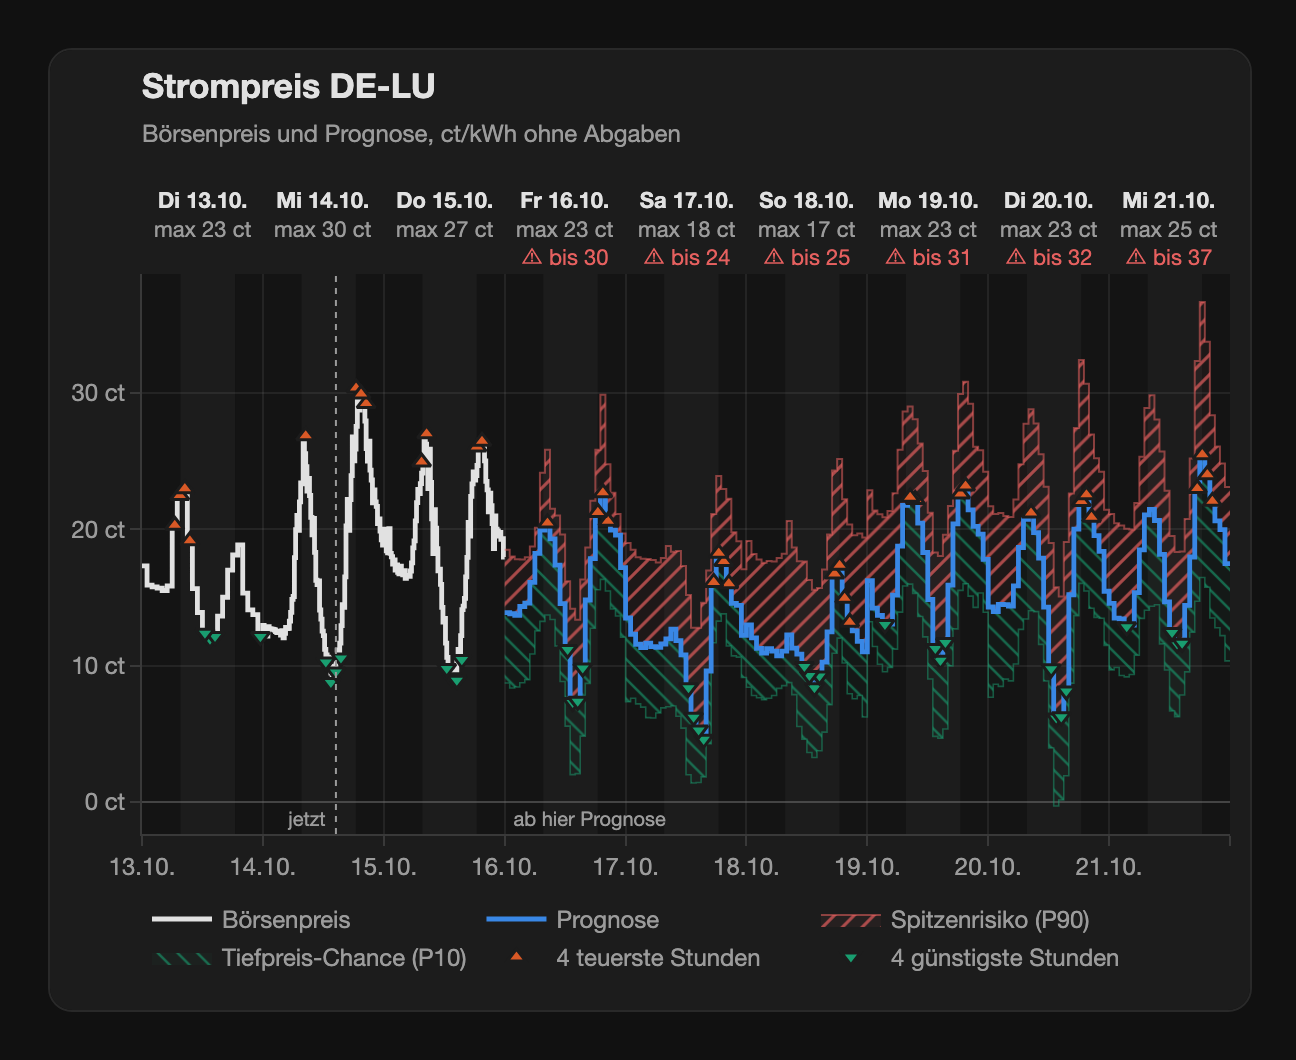
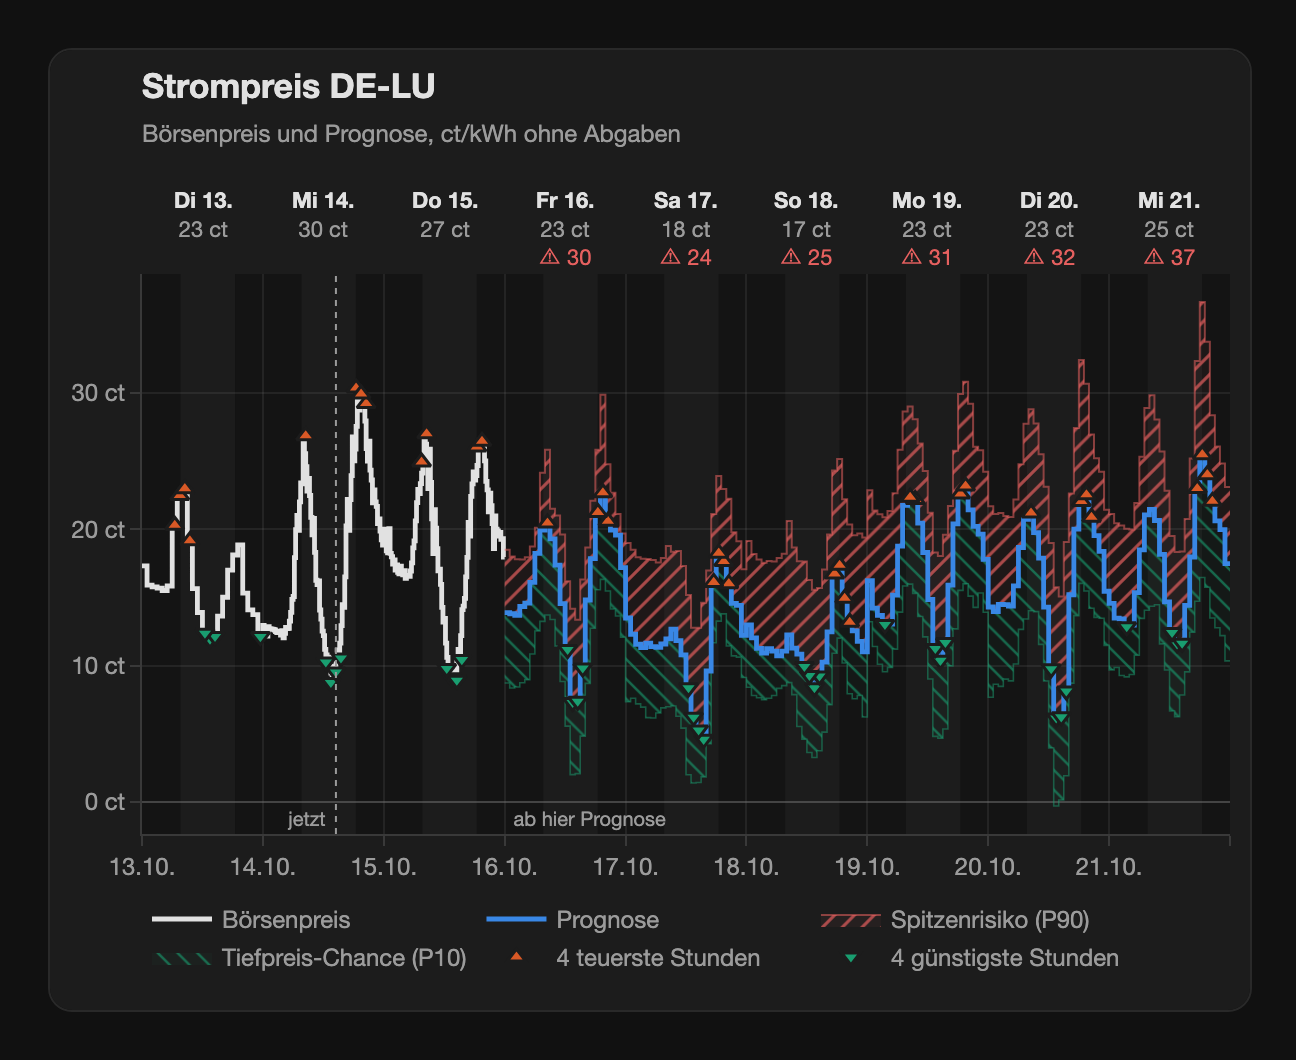
Shorten the day header when the days run together; state the Pi 5 run time
On a 500 px card with nine days the header labels ("Mo 26.10." over "max 27 ct")
ran into each other. Below about 62 px per day the card now writes "Mo 26." /
"27 ct" / "⚠ 25"; below 480 px it keeps the weekday alone, as before. The README
screenshots (600 px, nine days) are re-rendered with the shorter header.

The run time is now measured on a Raspberry Pi 5: a full run, downloads
included, takes about 1.2 seconds.

Claude-Session: https://claude.ai/code/session_0161hs24SpqnTTzyHMXCv1uW

Changed region(s): [[0.4938, 0.1557, 0.9568, 0.2491], [0.1235, 0.1557, 0.463, 0.2491]]

diff --git a/docs/model.md b/docs/model.md
@@ -52,9 +52,8 @@ calibration offsets, installed capacity and default peak threshold. On the
 device a small tree walker over numpy arrays evaluates them; it reproduces
 scikit-learn's predictions to 1e-6. Feature engineering is one module without
 Home Assistant or pandas, shared by the integration and the training. A
-forecast run takes well under a second on a desktop computer. It needs nothing but
-numpy (no pandas, no scikit-learn), so it is designed to run on a Raspberry
-Pi; a measurement on one is still to come.
+forecast run needs nothing but numpy (no pandas, no scikit-learn). On a
+Raspberry Pi 5 a full run, downloads included, takes about 1.2 seconds.
 
 ## Calibration
 

diff --git a/docs/cards.md b/docs/cards.md
@@ -29,7 +29,9 @@ One time axis from yesterday to the end of the forecast:
 * per day the **4 dearest (▲) and 4 cheapest (▼) hours**;
 * above each day its weekday, date and maximum, and "⚠ bis NN" in red when
   the peak risk crosses the threshold of the
-  [peak-risk sensor](entities.md#peak-risk);
+  [peak-risk sensor](entities.md#peak-risk); on a narrow card the header
+  shortens step by step to "Mo 26." / "27 ct" / "⚠ 25" and then to the weekday
+  alone;
 * nights shaded from `sun.sun`, and a dotted "jetzt" line where the forecast
   begins.
 
